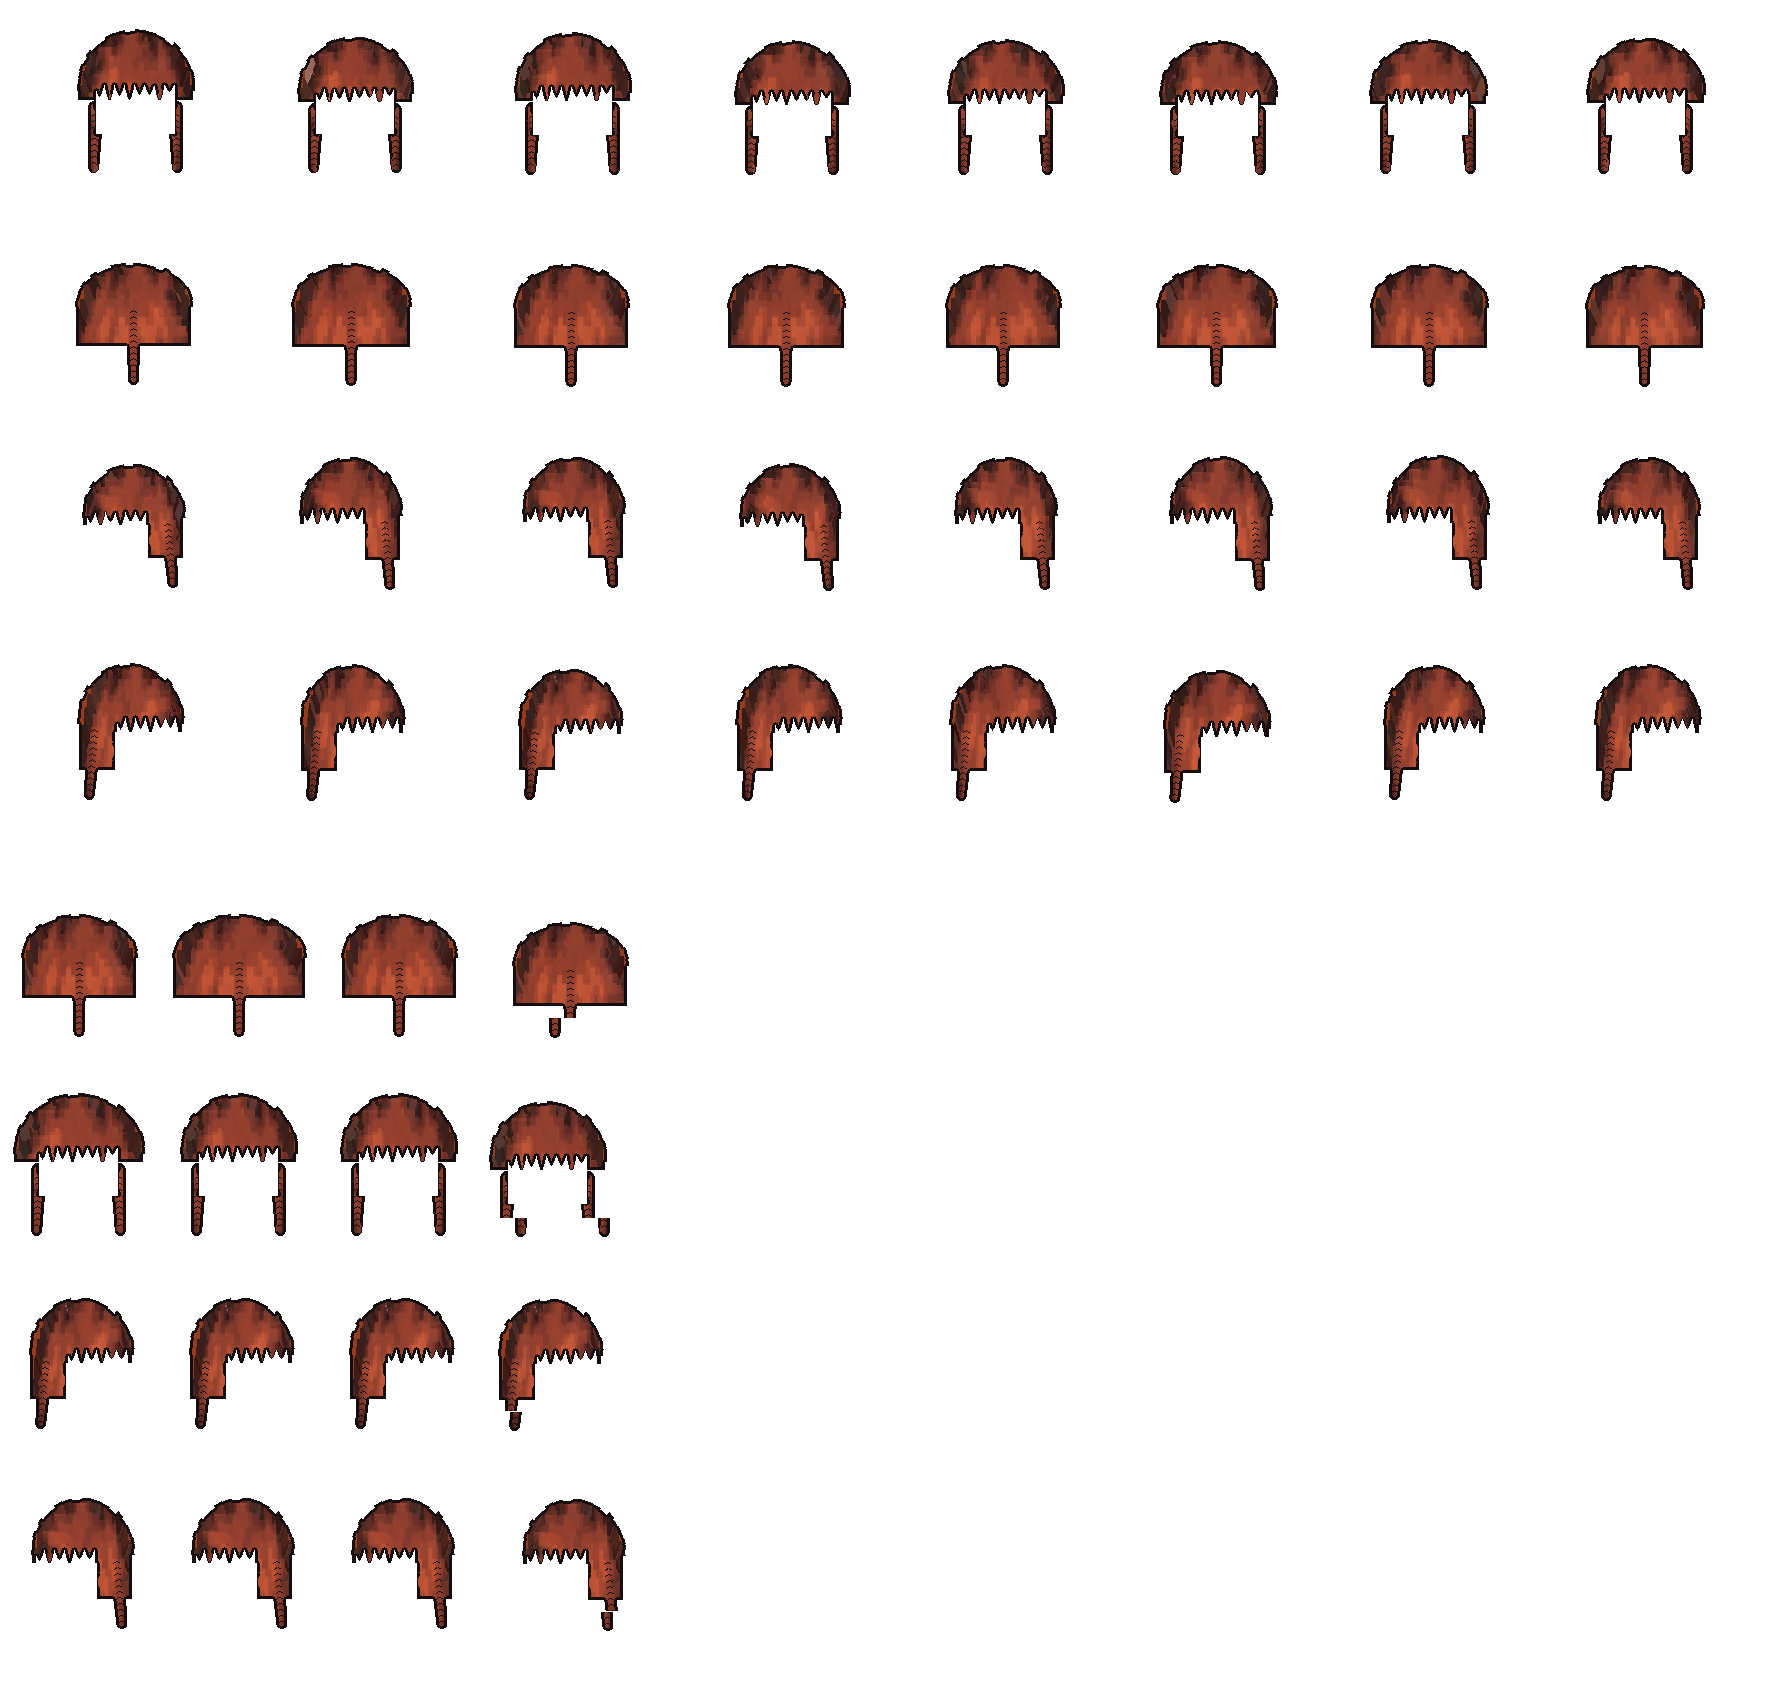
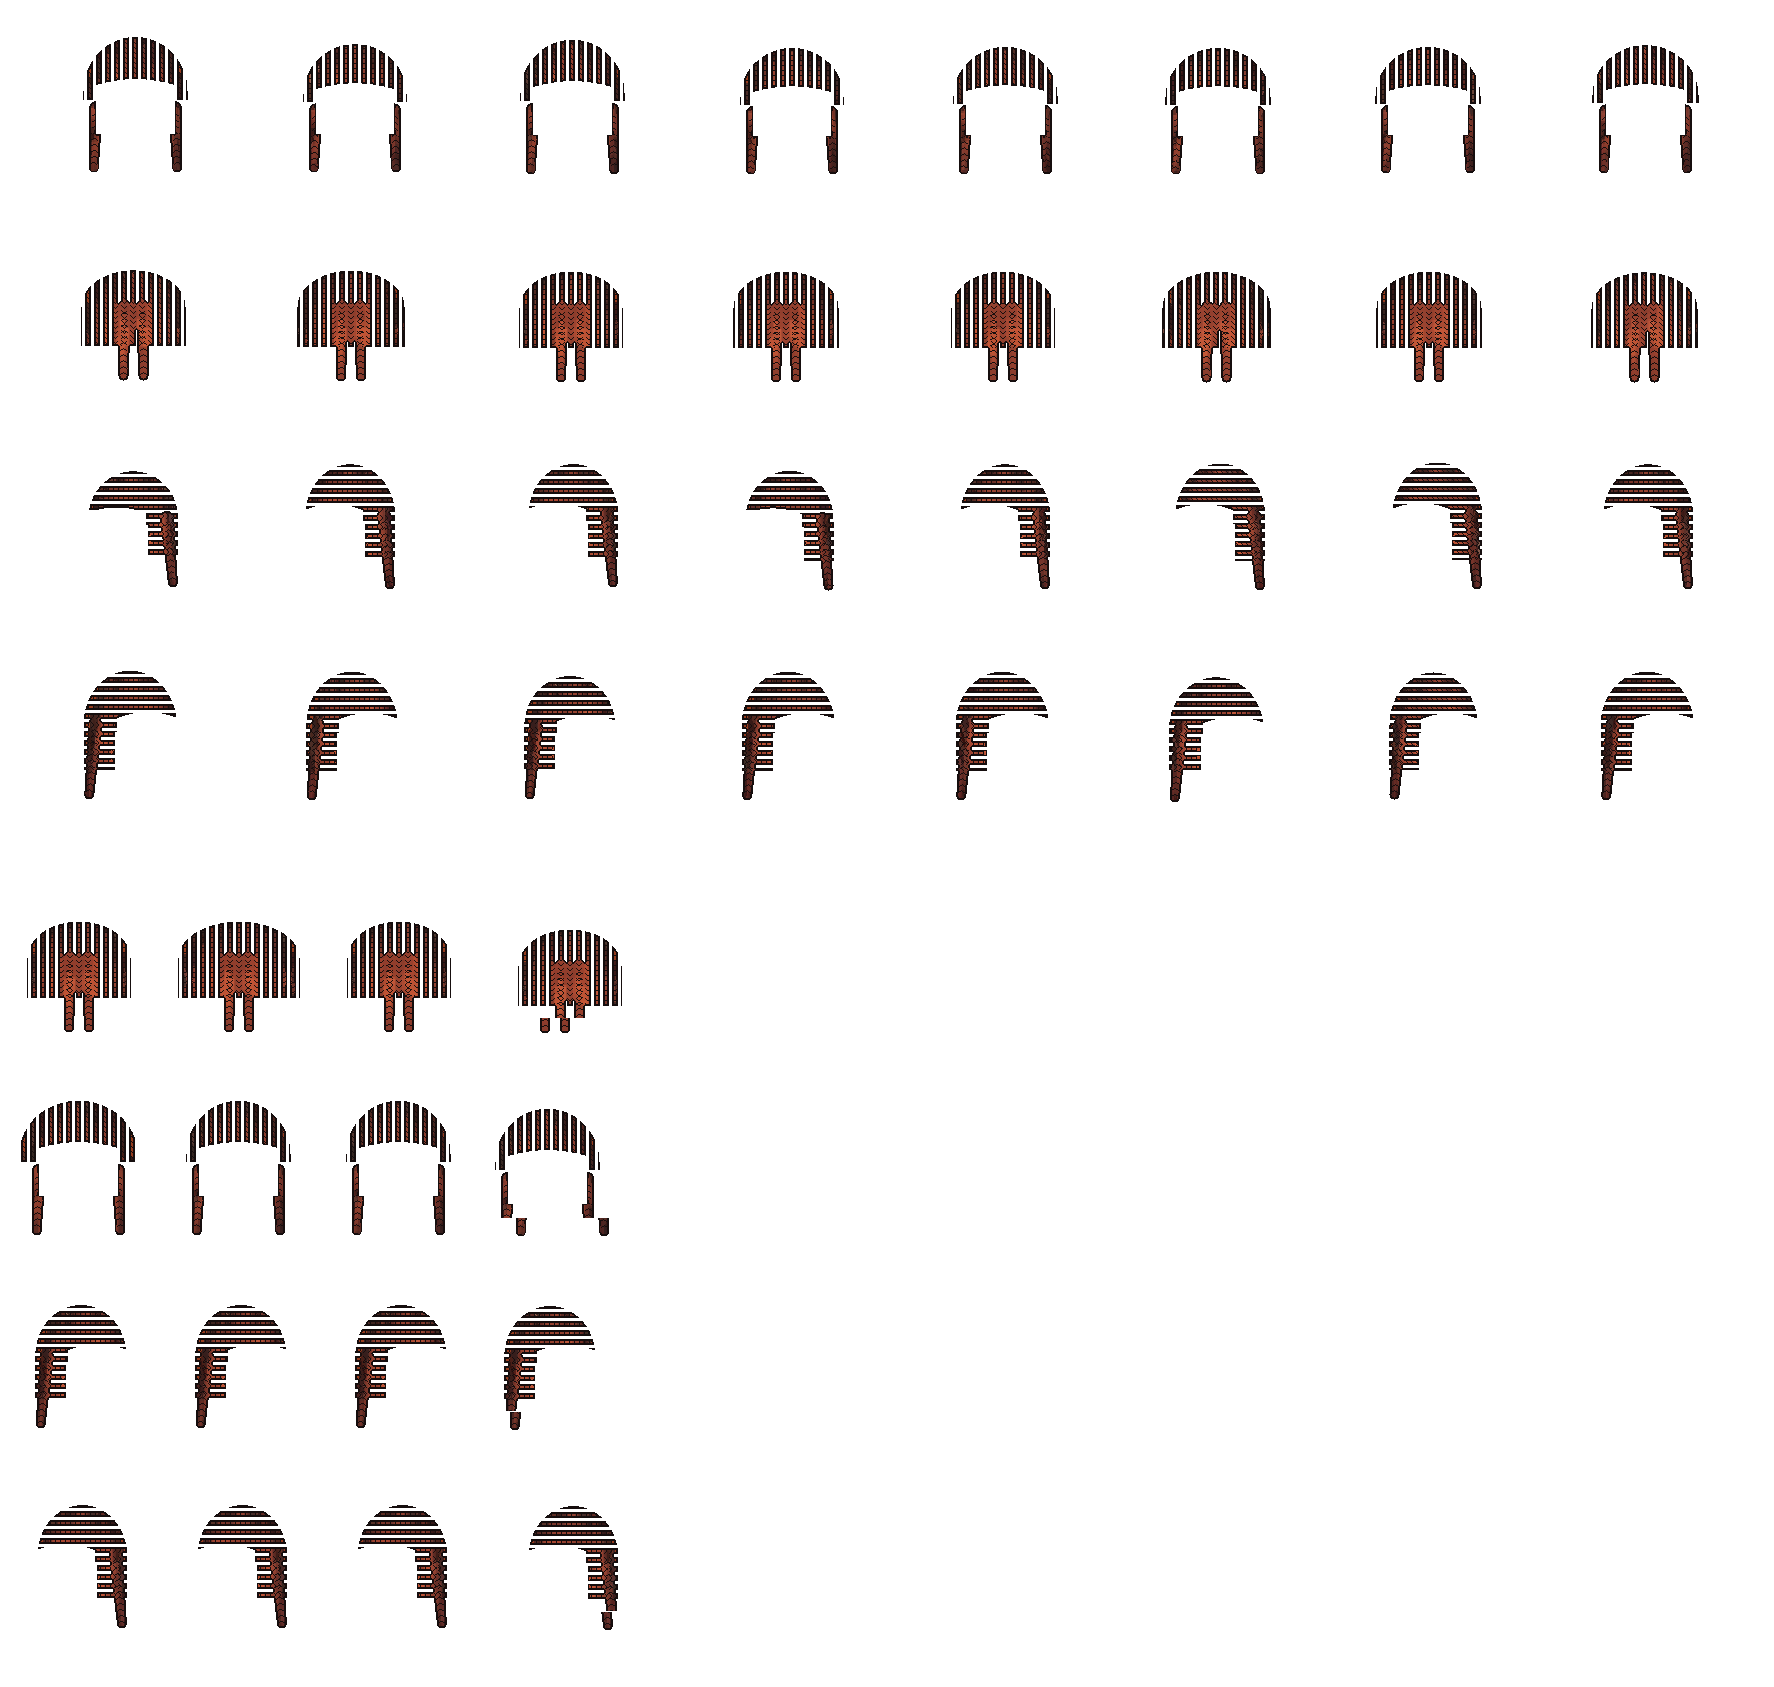
A4: long hair in disorder, tied hair pulled back, braids as cornrows
Yannick's answers on the first board: short, shaved, beards and fringe
validated. Long: locks of uneven length and an uneven edge. Tied: every
hair pulled back, a bare forehead under a clean hairline, combed strokes,
the tail behind. Braided: cornrows plaited flat from hairline to nape with
the scalp between the rows, and the hanging braids. Boards redrawn.

Fast suite green (667 tests).

diff --git a/docs/DEMO_TASKS.md b/docs/DEMO_TASKS.md
@@ -2558,6 +2558,14 @@ correct before they go further.
 > Boards: `docs/frames/creation/hair_and_beards.png` (each style and beard, three facings)
 > and `docs/frames/creation/mixes.png` (eight players combining the choices).
 > `test_every_style_and_beard_is_drawn_where_it_shows`.
+>
+> **His answers, the same day:** short, shaved, the beards and the fringe validated; three
+> reworked. **Long** is in disorder now — locks of uneven length, an edge that comes and
+> goes. **Tied** pulls every hair back: close to the skull, the forehead bare under a clean
+> hairline, combed back with a darker stroke every few pixels, the tail behind. **Braided**
+> is cornrows (*« comme Allen Iverson »*): rows plaited flat to the skull from the hairline
+> to the nape with the scalp showing between them, a notch across each row every few
+> pixels, and the braids hanging from them. Both boards redrawn.
 
 ### A5 · The appearance in the simulation
 
